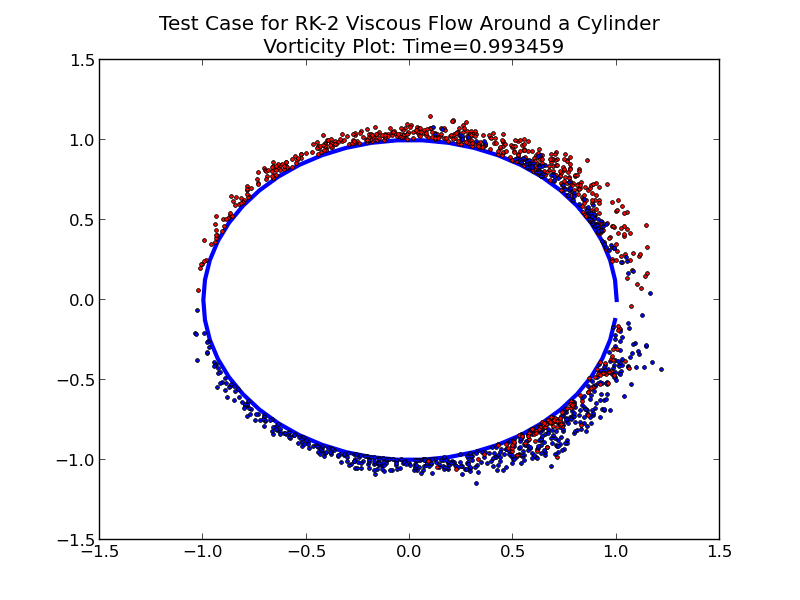
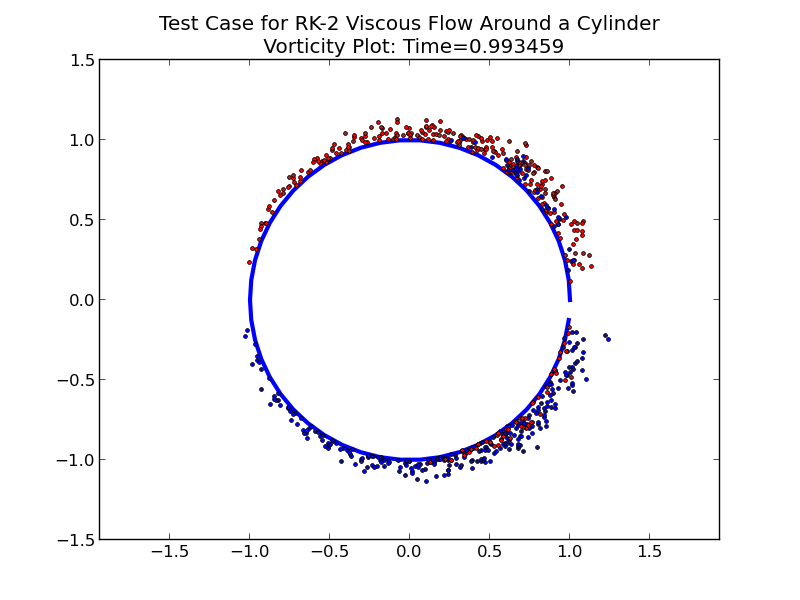
New results added

diff --git a/wallBC.py b/wallBC.py
@@ -33,12 +33,12 @@ class wallNPNSBC:
 	def findVcp(self,fieldGens=[],vinf=0.0):
 		"""find V at control points.
 		This step is to be executed at starting of each step"""
-		self.vcp=definations.velField(self.cp,fieldGens,vinf)
+		self.vcp=dfn.velField(self.cp,fieldGens,vinf)
 	
 	def findVcps(self,fieldGens,vinf=0.0):
 		"""For slip boundary conditions Vcp is to be find slightly above the control point
 		that is done by using this function. """
-		self.vcps=definations.velField(self.cps,fieldGens,vinf)
+		self.vcps=dfn.velField(self.cps,fieldGens,vinf)
 	
 	
 	def closeNPBC(self,fieldGens):
@@ -85,7 +85,7 @@ def NPLinList(points,vcp,A,cp,normals):
 	"""Gives back a linear vortex sheet list, which will satisfy non penetration boundary conditions on wall defined by points. Points should be in the order of wall boundary line"""
 	B=NPB(points,vcp,normals)
 	gammas=findGamma(A,B)
-	linList=definations.linVortList()
+	linList=dfn.linVortList()
 	for i in range(len(points)):
 		if i==len(points)-1:
 			linList.addLinVortex(gammas[i],gammas[0],points[i],points[0])
@@ -110,8 +110,8 @@ def linNPA(points,cp,normals):
 			else:
 				l2=j+1
 				l0=j-1
-			linVo1=definations.linVortex(1.,0.,points[l1],points[l2])
-			linVo2=definations.linVortex(0.,1.,points[l0],points[l1])
+			linVo1=dfn.linVortex(1.,0.,points[l1],points[l2])
+			linVo2=dfn.linVortex(0.,1.,points[l0],points[l1])
 			vel=linVo1.fieldEffect(cp[i])+linVo2.fieldEffect(cp[i])
 			vdotN=vel.dot(normals[i])
 			A[i][j]=vdotN
@@ -217,7 +217,7 @@ def testCylBC1(Np=50):
 	pos=numpy.array(pos)
 	
 	#Calculate field at these positions
-	F=definations.velField(pos,fieldGens,vinf)
+	F=dfn.velField(pos,fieldGens,vinf)
 	
 	# Arrange field values in u and v in order to plot them
 	for i in range(len(X.flatten())):

diff --git a/tInt.py b/tInt.py
@@ -227,7 +227,7 @@ def test4RK2(Npanels=50):
 	Re=1000
 	delta=(1./Re)**0.5
 	lemda=delta*math.pi
-	gmin=0.1
+	gmin=0.2
 	#Define V_Infinite, field generators and modifiable points
 	vinf=numpy.array([1.0,0.0])
 	fieldGens=[]
@@ -249,7 +249,7 @@ def test4RK2(Npanels=50):
 	startTime=0.0
 	CFL=1.0
 	timeStep=CFL*lemda/((vinf.dot(vinf))**0.5)
-	endTime=8.0
+	endTime=6.0
 	timeMesh=dfn.linearTimeMesh(startTime,timeStep,endTime)
 
 	#Start time loop

diff --git a/plots.py b/plots.py
@@ -48,6 +48,7 @@ def plotVort(toMod,BCList,tim):
 	Change for different cases as required"""
 	
 	plt.figure()
+	plt.axis('equal')
 	plt.title('Test Case for RK-2 Viscous Flow Around a Cylinder \n Vorticity Plot: Time=%f'%tim)
 	[plt.plot(numpy.array(eachBC.points).transpose()[0],numpy.array(eachBC.points).transpose()[1],linewidth=3.0) for eachBC in BCList]
 	for eachList in toMod:
